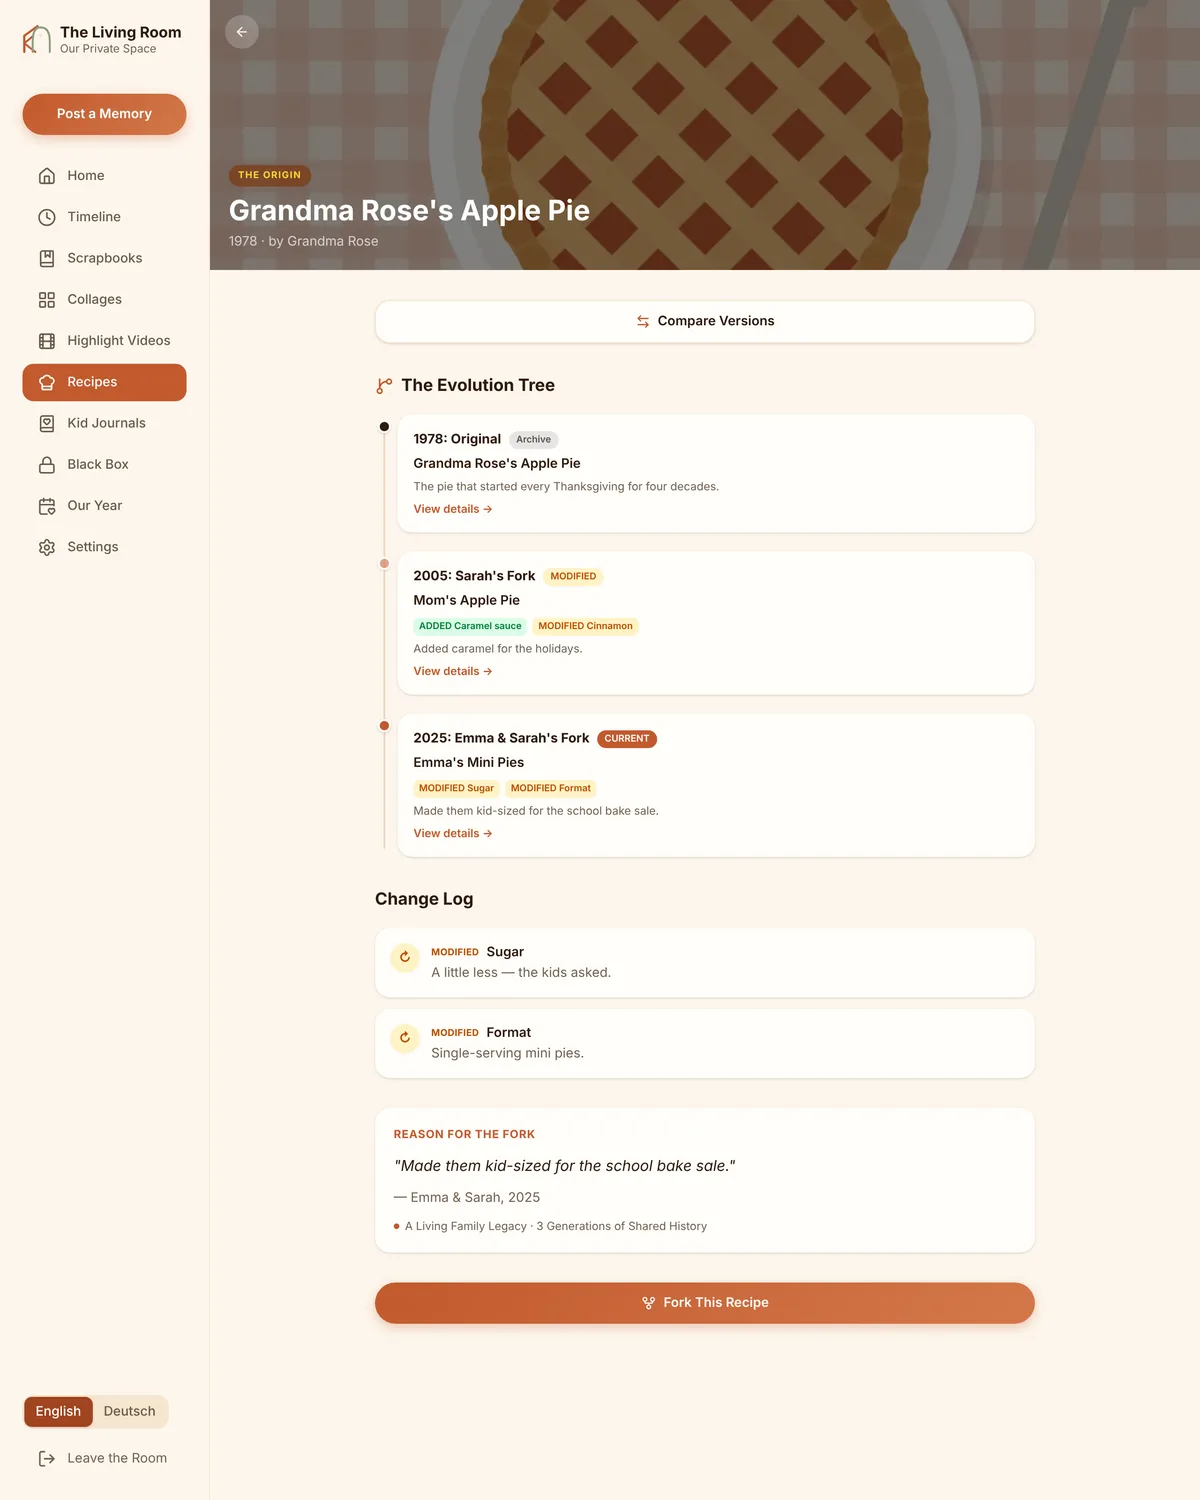
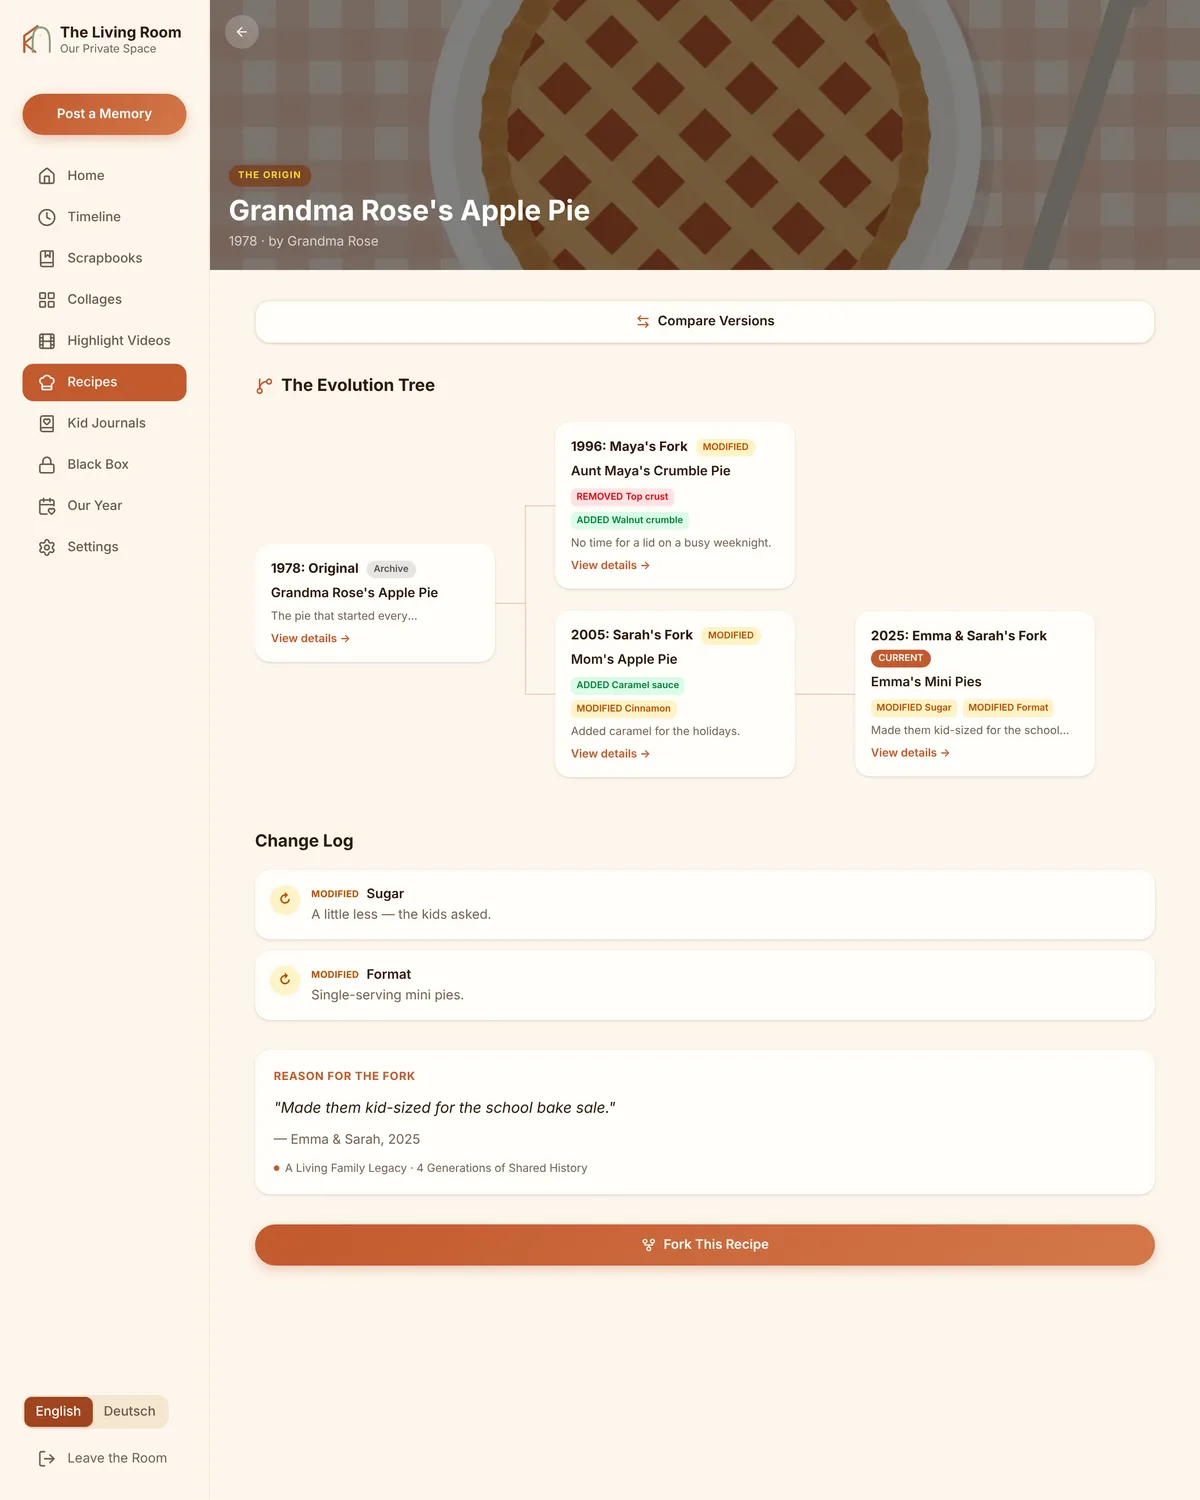
Add a second fork to the demo recipe so the tree branches
The demo recipe was a straight chain, which showed nothing of the new
family tree. Aunt Maya's crumble pie forks the original a second time, in
both languages, and the landing page screenshots of the tree are retaken.

Claude-Session: https://claude.ai/code/session_01GZpMVMyTBe3GUBi8RkHqz5

Changed region(s): [[0.2158, 0.2453, 0.9558, 0.8893], [0.7092, 0.3987, 0.8942, 0.5213]]

diff --git a/src/demo/demoContent.js b/src/demo/demoContent.js
@@ -213,6 +213,19 @@ const en = {
       ingredients: ['2 cups flour', '2 tbsp sugar', '2 tsp baking powder', '2 eggs', '1½ cups milk', '3 tbsp melted butter'],
       changes: [],
     },
+    {
+      title: "Aunt Maya's Crumble Pie",
+      author: 'Maya',
+      description: 'Grandma\'s filling under a golden walnut crumble instead of a lid.',
+      instructions: 'Fill the crust as in the original. Rub butter, flour, brown sugar and chopped walnuts into crumbs, scatter over the apples and bake at 190 °C for 45 minutes.',
+      chefNote: 'Cold butter, or the crumble turns to paste.',
+      forkReason: 'No time for a lid on a busy weeknight.',
+      ingredients: ['6 Granny Smith apples', '1 cup sugar', '2 tsp cinnamon', 'Single pie crust', 'Walnut crumble'],
+      changes: [
+        { type: 'REMOVED', ingredient: 'Top crust', description: 'Replaced by a crumble.' },
+        { type: 'ADDED', ingredient: 'Walnut crumble', description: 'Butter, flour, brown sugar and walnuts.' },
+      ],
+    },
   ],
 
   scrapbook: {
@@ -527,6 +540,19 @@ const de = {
       forkReason: '',
       ingredients: ['4 Eier', '250 ml Milch', '150 g Mehl', '2 EL Zucker', '2 EL Butter', 'Staubzucker'],
       changes: [],
+    },
+    {
+      title: 'Tante Mayas Strudel mit Nussbröseln',
+      author: 'Maya',
+      description: 'Omas Füllung, aber mit knusprigen Nussbröseln statt Strudelteig.',
+      instructions: 'Die Füllung in eine Form geben. Butter, Mehl, braunen Zucker und gehackte Walnüsse zu Streuseln verreiben, über die Äpfel streuen und bei 190 °C 45 Minuten backen.',
+      chefNote: 'Die Butter muss kalt sein, sonst wird aus den Streuseln Matsch.',
+      forkReason: 'Unter der Woche fehlt die Zeit, Teig auszuziehen.',
+      ingredients: ['1 kg säuerliche Äpfel', '100 g Zucker', '2 TL Zimt', '50 g Rosinen', 'Walnussbrösel'],
+      changes: [
+        { type: 'REMOVED', ingredient: 'Strudelteig', description: 'Durch Streusel ersetzt.' },
+        { type: 'ADDED', ingredient: 'Walnussbrösel', description: 'Butter, Mehl, brauner Zucker und Walnüsse.' },
+      ],
     },
   ],
 

diff --git a/src/demo/demoFamily.js b/src/demo/demoFamily.js
@@ -41,7 +41,7 @@ const MEMORY_IMAGES = [
   ['books.webp'],
 ]
 const MOMENT_IMAGES = ['pancakes.webp', 'playground.webp', 'books.webp', 'bike.webp', 'treehouse.webp']
-const RECIPE_IMAGES = ['pie.webp', 'kitchen.webp', 'cookies.webp', 'pancakes.webp']
+const RECIPE_IMAGES = ['pie.webp', 'kitchen.webp', 'cookies.webp', 'pancakes.webp', 'pie.webp']
 
 /**
  * @param {{ language?: 'en'|'de', now?: Date }} options
@@ -180,12 +180,13 @@ export function buildDemoFamily({ language = 'en', now = new Date() } = {}) {
     })
   })
 
-  // ── Recipes: a strudel (or pie) with two generations of forks, and one more
+  // ── Recipes: a strudel (or pie) with two generations of forks and a second branch, and one more
   const recipeSlots = [
     { id: 'demo-recipe-1', year: 1978, parentId: null, rootId: null, createdAt: inYear(3, 2, 1) },
     { id: 'demo-recipe-2', year: 2005, parentId: 'demo-recipe-1', rootId: 'demo-recipe-1', createdAt: inYear(3, 2, 2) },
     { id: 'demo-recipe-3', year: year - 1, parentId: 'demo-recipe-2', rootId: 'demo-recipe-1', createdAt: inYear(1, 3, 15) },
     { id: 'demo-recipe-4', year: 2012, parentId: null, rootId: null, createdAt: inYear(2, 5, 4) },
+    { id: 'demo-recipe-5', year: 1996, parentId: 'demo-recipe-1', rootId: 'demo-recipe-1', createdAt: inYear(2, 1, 20) },
   ]
   c.recipes.forEach((recipe, i) => {
     const slot = recipeSlots[i]

diff --git a/src/__tests__/demoFamily.test.js b/src/__tests__/demoFamily.test.js
@@ -146,3 +146,11 @@ describe('demo family', () => {
     expect(JSON.parse(emma.birthPlace)).toMatchObject({ name: 'Wien', tz: 'Europe/Vienna' })
   })
 })
+
+describe('demo recipes', () => {
+  it('has a recipe forked twice from the original, so the tree branches', () => {
+    const { documents } = load()
+    const forks = documents.filter(([path, d]) => path.startsWith('recipes/') && d.parentId === 'demo-recipe-1')
+    expect(forks).toHaveLength(2)
+  })
+})
